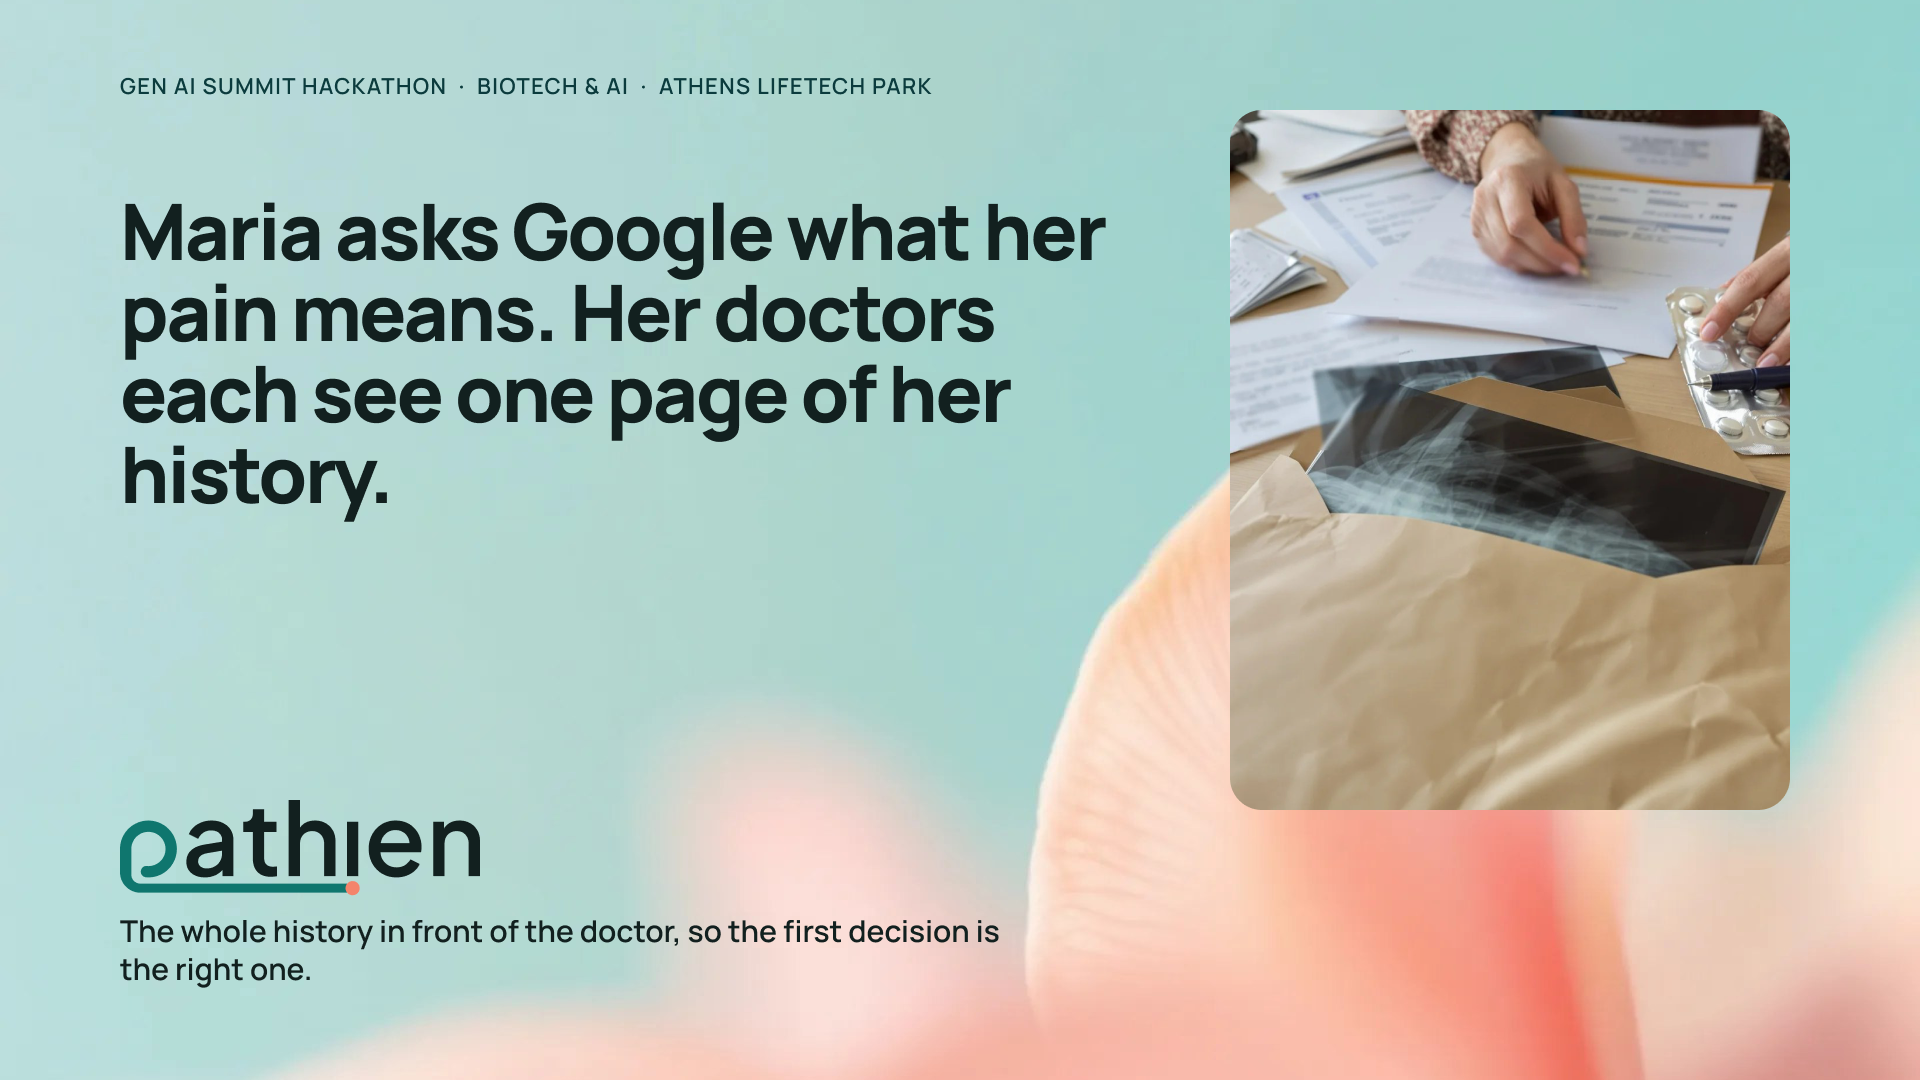
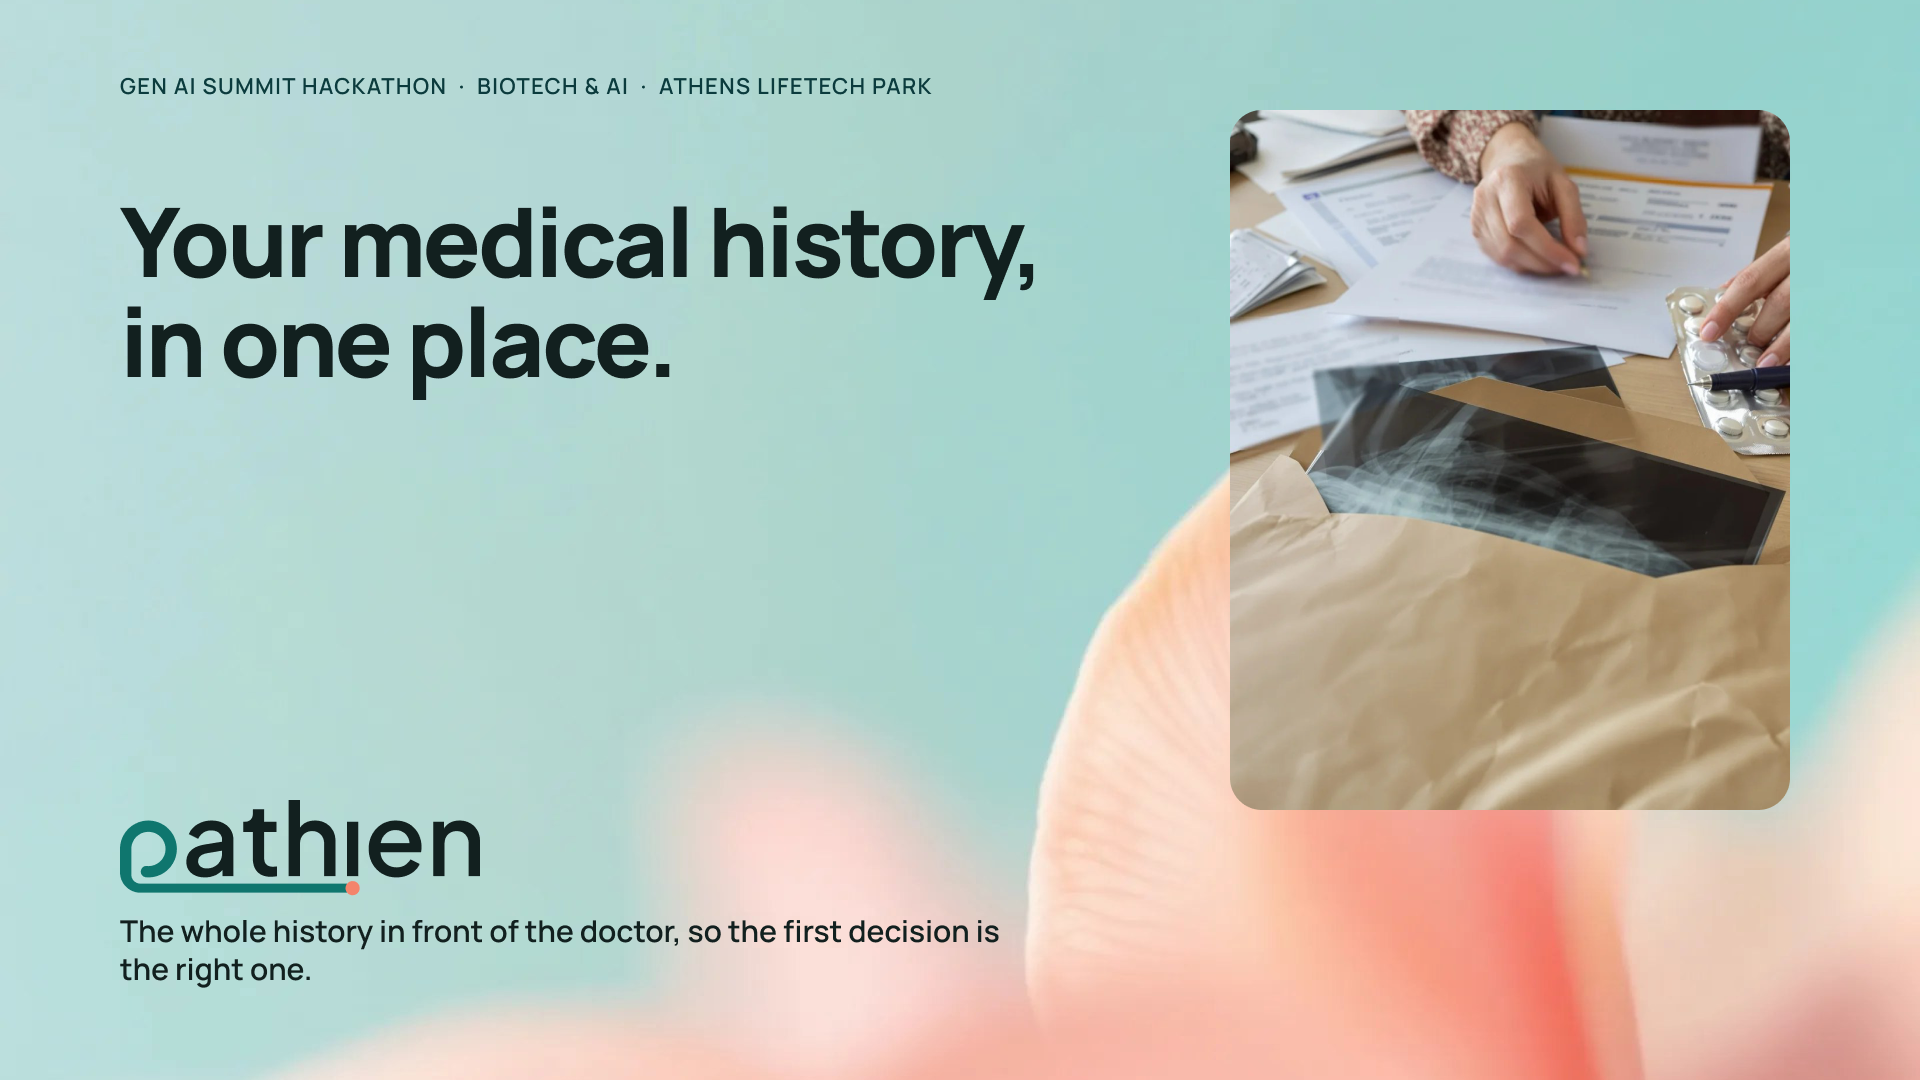
fix(deck): cover headline "Your medical history, in one place." (v4.6) (#105)
* fix(deck): cover headline is "Your medical history, in one place."

Founder, 15 Nov 2026: "just write Your medical history, in one place."
Slide 1 headline replaced, broken after the comma (white-space:pre-line on
.cover-h1). deck-content.md v4.6. One-liner and speaker notes unchanged.

MIN-4503

* docs(deck): new Figma cover render for v4.6 headline

Refs MIN-4503

---------

Changed region(s): [[0.0625, 0.1833, 0.5938, 0.4889]]

diff --git a/landing/src/deck/deck.css b/landing/src/deck/deck.css
@@ -57,7 +57,7 @@ strong{font-weight:700}
 /* ---- Cover ---- */
 .t-cover{background-size:cover;background-position:center}
 .cover-eyebrow{position:absolute;left:120px;top:70px;font-size:24px;font-weight:600;letter-spacing:.02em;text-transform:uppercase;color:#0f2f2c}
-.cover-h1{position:absolute;left:120px;top:186px;width:1030px;font-size:86px;line-height:80px;font-weight:700;letter-spacing:-.045em;color:#12201F}
+.cover-h1{position:absolute;left:120px;top:186px;width:1030px;font-size:86px;line-height:80px;font-weight:700;letter-spacing:-.045em;color:#12201F;white-space:pre-line}
 .cover-photo{position:absolute;left:1230px;top:110px;width:560px;height:700px;object-fit:cover;border-radius:32px;box-shadow:var(--sh)}
 .cover-foot{position:absolute;left:120px;top:796px;width:1000px}
 .cover-lockup{width:360px}

diff --git a/landing/src/deck/slides.ts b/landing/src/deck/slides.ts
@@ -17,7 +17,7 @@ const mainSlides: Slide[] = [
   {
     id: '1', template: 'cover', theme: 'air', notes: N['1'],
     eyebrow: 'Gen AI Summit Hackathon · Biotech & AI · Athens LifeTech Park',
-    headline: 'Maria asks Google what her pain means. Her doctors each see one page of her history.',
+    headline: 'Your medical history,\nin one place.',
     tagline: 'The whole history in front of the doctor, so the first decision is the right one.',
     background: '/img/bg-hero.webp',
     photo: { src: '/img/problem.webp', alt: 'A worn envelope of exams, an X-ray and loose letters on a table' },

diff --git a/docs/deck/deck-content.md b/docs/deck/deck-content.md
@@ -11,7 +11,7 @@ Version entries before v4.2 use the old numbers.
 | | |
 |---|---|
 | **Owner** | Anna Lytica (Marketing), MIN-4429. Deck story: CEO (MIN-4425). Design: Pix (MIN-4428), next. |
-| **Version** | **v4.5, 15 Nov 2026** (MIN-4503: slide 6c rebuilt so the three cards compare the same thing. Founder, 15 Nov 2026, verbatim, asked of the v4.4 cards "$360M\*" and "$200,000\*": *"does 360m is the whole and the 200000 is per trial?"*, then: *"You need to be clear with the numbers and compare the same thing"*. The v4.4 cards mixed a market total over the life of 1,497 trials (recruitment budget, dollars), a per-trial running-cost saving (dollars) and our per-trial fee (euros). All three cards are now the cost of recruitment time, for one trial in one country, in euros at $1.10 to €1: card 1 **€36,000\*** a day of delay ($40,000, S23, rounded down); card 2 **€180,000\*** saved, 5 × €36,000; card 3 **€24,000\*** our fee, the sponsor keeps €156,000. The market totals ($357M ≈ €325M recruitment budget, 1,497 trials, 776,650 participants, ≈ €270M of running cost if each saved 5 days) moved to A3 as context, with a new answer on why the cards use the cost of a day and not the recruitment budget per trial. A3's worked example, speaker notes, web deck (`slides.ts`, `notes.ts`, `appendix.ts`) and `docs/business/clinical-trials-fit.md` §8 match. Was $360M / $200,000 / €24,000, sponsor keeps €158,000.) v4.4, 15 Nov 2026 (MIN-4503: slide 5b step 1 reversed. Founder, 15 Nov 2026, verbatim: *"probably in a serious condition"*. Step 1 now reads "possibly in a serious condition"; speaker notes and A2 "For questions" items 1 and 4 rewritten to match: support verifies with the hospital, not the patient. Replaces the v3.5 wording "with no serious condition".) **v4.3, 15 Nov 2026** (MIN-4503: the ask is now **€1M over 24 months**, in two gated tranches of **€300k** and **€700k** (was €600k over 18 months), merged from the CEO's plan v3, `docs/business/team-and-funding-plan.md` §7; slide 13 (team and ask) and slide 14 (why) rewritten with main numbers only: the headline, the ask, the two gates, the spend bar (Sell €285k · 29%, Build €361k · 36%, Prove €242k · 24%, Buffer €112k · 11%), one team line and an "\*" footnote with "Details → A9"; A9 filled with the full tables (team, spend by function, burn by quarter, runway, tranches and inner gates, break-even on both lines and the cash low point, the €885k alternative, assumptions); the 3-minute script and `docs/submission/pitch-script.md` now say €1M over 24 months; Q27 and Q39 updated; founder, verbatim: "Fund 1m -> do the maths", then "Keep at all slides the main numbers and add all at appendix with link"). v4.2, 15 Nov 2026 (MIN-4503: main numbers only on every slide, every detail moved to nine appendix slides A1 to A9 with a "Details → A_" link from each main slide; slide 3 cut to a headline and three points; slide 4 cut to five one-sentence steps; old slide 5 (live demo) removed, its content moved to A2 and slide 4's "For questions", the demo still runs live with no slide; privacy (old 6, now 5) cut to three points; old 7c (now 6c) cut to three cards, each a title, one big number with a "\*" and one line, one small footnote; the asterisk-and-small-footnote style made deck-wide for estimates in rule 8, replacing the same-size label rule; business model (old 10, now 9) rebuilt on three buyer groups: hospitals, governments and national health systems, private clinics; old Appendix A is now A7; slides renumbered, map in the comment at the top; slides 13 and 14 (old 14 and 15) unchanged apart from links, pending the CEO's €1M text; nothing deleted, only moved; founder, verbatim, in order: "slide 3 -> reduce content and make it clear and understandable / Slide 4 -> reduce the text also, clear sentences / Slide 5 -> remove / Slide 6-> remove unnecessary info", then "7c -> estimate should be with a * and small letters / Seriously just numbers with an explanation, not too much content", then "bussiness model / We need hospitals, governments, private clinics", then "Keep at all slides the main numbers and add all at appendix with link"). Slide numbers in the entries below are the old numbers. v4.1, 15 Nov 2026 (MIN-4503: the "Mock-up" tag removed from slides 4, 6 and 7 and every other screen; the "Working demo · synthetic data" tag stays on slide 5; slide 2's four chips (Orthopaedist, Rheumatologist, Private lab, Search history) and its closing line ("The history exists, split across providers, apps, private labs, paper and other countries. It never reaches one desk.") removed; rule 8's waiver extended to the Mock-up tag; no other text changed; founder, verbatim, with a screenshot of the chips row: "remove the \"mockup\" tags / remove the whole line"). v4.0, 15 Nov 2026 (MIN-4503: slide 7b slimmed to two lines per column and the revenue strip removed; new slide 7c, Clinical trials, the economics, three cards: today's recruitment cost, what Pathien could save a sponsor, how we charge; success fee lowered from €1,500 to €1,000 per randomised patient (assumption) because ASPE puts the recruitment line at about $500 to $700 per participant and a vendor average at $1,379; sources S29 to S31; slide 11 totals unchanged; founder, verbatim: "Pricing -> show different in 3 cards / * The current situation, the cost of one hire, number of trials and the participants, total cost / * How cheaper could be from our patient match and selection and how many money we can save them / * How we can charge and the revenue", then "Reduct the content of patient selection and patient experience"). v3.9, 15 Nov 2026 (MIN-4503: slide 7b rewritten: no "not built" eyebrow; two columns for the challenge's Topic 2, patient selection and recruitment, and Topic 3, patient experience; a revenue strip with a sourced cost of delay and a priced unit, €5,000 per trial set-up and €1,500 per randomised patient, both assumptions; sources S23 to S28; slide 11 totals unchanged, trial revenue named under "Not counted"; founder, verbatim: "Change the content and focus / NOT not build yet next steps / Say how our solution can cover / patient selection and recruitment; / patient experience; / Connect with revenue from trial clinics"). v3.8, 15 Nov 2026 (MIN-4503: new slide 7b, Clinical trials, after slide 7; labelled "Not built yet · our next step"; founder, verbatim: "Deck 7 -> Create a deck 7b to connect to the Clinical_Trials_Challenge"; the founder's summary is `docs/business/clinical-trials-fit.md`; no other slide renumbered). v3.7, 15 Nov 2026 (MIN-4503: slide 12, Tel Aviv and Sheba ARC removed; founder, verbatim: "remove tel aviv for now at 12 slide"). v3.6, 15 Nov 2026 (MIN-4503: slide 6b step 4 and its speaker note: the support person calls the hospital to verify the situation, not the patient; founder, verbatim: "not to verify with patient but to verify the situation with the hospital"). v3.5, 15 Nov 2026 (MIN-4503: slide 6b, the concept label and all pricing removed, and a four-step "How it's used" flow added; founder, verbatim: "6b -> concept ,not build -> remove / Pricing -> No / But add how to use / Patient abroad or at a hospital with no serious condition -> Doctor scans the code on the machine -> opens the doctor page -> one of our support team calls to verify the condition and give the doctor access"; rule 8 (concept labels) is waived for 6b by the founder; S21 and S22 unused). v3.4, 14 Nov 2026 (MIN-4462: every insurer mention removed from slides 6, 6b, 10, 11, 13 and both scripts; founder: "remove the never insurers -> not sure about this", then "Drop every insurer mention"; the internal data rule is unchanged). v3.3, 14 Nov 2026 (MIN-4503: slide 6b, the "Concept render" tag removed and the encryption point added; founder: "remove the concept render -> and mention that this device has our own encrypted software for the data so they are not in the cloud"; the eyebrow "Concept · not built" stays). v3.2, 14 Nov 2026 (MIN-4503: new slide 6b, Pathien Vault, a concept device for patients who want maximum privacy; founder: "what if someone that want's his privacy can buy our device that can hold his data. Anna and pix work on this and add one slide with a very super elegant image with our device that looks very premioum"; no other slide renumbered). v3.1, 14 Nov 2026 (MIN-4503: team and ask from the CEO plan v2, `docs/business/team-and-funding-plan.md` §7; slide 14 replaced, slide 15 new; founder: "put it in the deck when ready"). v3, 14 Nov 2026 (MIN-4503: name Pathien; new slide 11, revenue years 1 to 3, on the founder's ask "the numbers of how many money we can earn" and "Yes, update to v3"; Appendix A's SOM retired for the bottom-up line; demo slides say what is real and what is synthetic). v2, 14 Nov 2026 (MIN-4503: reframed on the founder's two points, "Dr Google" and better doctor decisions; numbers from `pitch-numbers-2026-11-14.md` and `treg-findings-2026-11-14.md`). v1, 13 Nov 2026. |
+| **Version** | **v4.6, 15 Nov 2026** (MIN-4503: slide 1 cover headline replaced. Founder, 15 Nov 2026, verbatim, after none of the five proposed cover headlines was picked: *"just write Your medical history, in one place."* The headline is now "Your medical history, / in one place.", broken after the comma, the same words as the landing page hero; the one-liner and the speaker notes are unchanged; web deck `slides.ts` matches. Was "Maria asks Google what her pain means. Her doctors each see one page of her history.") v4.5, 15 Nov 2026 (MIN-4503: slide 6c rebuilt so the three cards compare the same thing. Founder, 15 Nov 2026, verbatim, asked of the v4.4 cards "$360M\*" and "$200,000\*": *"does 360m is the whole and the 200000 is per trial?"*, then: *"You need to be clear with the numbers and compare the same thing"*. The v4.4 cards mixed a market total over the life of 1,497 trials (recruitment budget, dollars), a per-trial running-cost saving (dollars) and our per-trial fee (euros). All three cards are now the cost of recruitment time, for one trial in one country, in euros at $1.10 to €1: card 1 **€36,000\*** a day of delay ($40,000, S23, rounded down); card 2 **€180,000\*** saved, 5 × €36,000; card 3 **€24,000\*** our fee, the sponsor keeps €156,000. The market totals ($357M ≈ €325M recruitment budget, 1,497 trials, 776,650 participants, ≈ €270M of running cost if each saved 5 days) moved to A3 as context, with a new answer on why the cards use the cost of a day and not the recruitment budget per trial. A3's worked example, speaker notes, web deck (`slides.ts`, `notes.ts`, `appendix.ts`) and `docs/business/clinical-trials-fit.md` §8 match. Was $360M / $200,000 / €24,000, sponsor keeps €158,000.) v4.4, 15 Nov 2026 (MIN-4503: slide 5b step 1 reversed. Founder, 15 Nov 2026, verbatim: *"probably in a serious condition"*. Step 1 now reads "possibly in a serious condition"; speaker notes and A2 "For questions" items 1 and 4 rewritten to match: support verifies with the hospital, not the patient. Replaces the v3.5 wording "with no serious condition".) **v4.3, 15 Nov 2026** (MIN-4503: the ask is now **€1M over 24 months**, in two gated tranches of **€300k** and **€700k** (was €600k over 18 months), merged from the CEO's plan v3, `docs/business/team-and-funding-plan.md` §7; slide 13 (team and ask) and slide 14 (why) rewritten with main numbers only: the headline, the ask, the two gates, the spend bar (Sell €285k · 29%, Build €361k · 36%, Prove €242k · 24%, Buffer €112k · 11%), one team line and an "\*" footnote with "Details → A9"; A9 filled with the full tables (team, spend by function, burn by quarter, runway, tranches and inner gates, break-even on both lines and the cash low point, the €885k alternative, assumptions); the 3-minute script and `docs/submission/pitch-script.md` now say €1M over 24 months; Q27 and Q39 updated; founder, verbatim: "Fund 1m -> do the maths", then "Keep at all slides the main numbers and add all at appendix with link"). v4.2, 15 Nov 2026 (MIN-4503: main numbers only on every slide, every detail moved to nine appendix slides A1 to A9 with a "Details → A_" link from each main slide; slide 3 cut to a headline and three points; slide 4 cut to five one-sentence steps; old slide 5 (live demo) removed, its content moved to A2 and slide 4's "For questions", the demo still runs live with no slide; privacy (old 6, now 5) cut to three points; old 7c (now 6c) cut to three cards, each a title, one big number with a "\*" and one line, one small footnote; the asterisk-and-small-footnote style made deck-wide for estimates in rule 8, replacing the same-size label rule; business model (old 10, now 9) rebuilt on three buyer groups: hospitals, governments and national health systems, private clinics; old Appendix A is now A7; slides renumbered, map in the comment at the top; slides 13 and 14 (old 14 and 15) unchanged apart from links, pending the CEO's €1M text; nothing deleted, only moved; founder, verbatim, in order: "slide 3 -> reduce content and make it clear and understandable / Slide 4 -> reduce the text also, clear sentences / Slide 5 -> remove / Slide 6-> remove unnecessary info", then "7c -> estimate should be with a * and small letters / Seriously just numbers with an explanation, not too much content", then "bussiness model / We need hospitals, governments, private clinics", then "Keep at all slides the main numbers and add all at appendix with link"). Slide numbers in the entries below are the old numbers. v4.1, 15 Nov 2026 (MIN-4503: the "Mock-up" tag removed from slides 4, 6 and 7 and every other screen; the "Working demo · synthetic data" tag stays on slide 5; slide 2's four chips (Orthopaedist, Rheumatologist, Private lab, Search history) and its closing line ("The history exists, split across providers, apps, private labs, paper and other countries. It never reaches one desk.") removed; rule 8's waiver extended to the Mock-up tag; no other text changed; founder, verbatim, with a screenshot of the chips row: "remove the \"mockup\" tags / remove the whole line"). v4.0, 15 Nov 2026 (MIN-4503: slide 7b slimmed to two lines per column and the revenue strip removed; new slide 7c, Clinical trials, the economics, three cards: today's recruitment cost, what Pathien could save a sponsor, how we charge; success fee lowered from €1,500 to €1,000 per randomised patient (assumption) because ASPE puts the recruitment line at about $500 to $700 per participant and a vendor average at $1,379; sources S29 to S31; slide 11 totals unchanged; founder, verbatim: "Pricing -> show different in 3 cards / * The current situation, the cost of one hire, number of trials and the participants, total cost / * How cheaper could be from our patient match and selection and how many money we can save them / * How we can charge and the revenue", then "Reduct the content of patient selection and patient experience"). v3.9, 15 Nov 2026 (MIN-4503: slide 7b rewritten: no "not built" eyebrow; two columns for the challenge's Topic 2, patient selection and recruitment, and Topic 3, patient experience; a revenue strip with a sourced cost of delay and a priced unit, €5,000 per trial set-up and €1,500 per randomised patient, both assumptions; sources S23 to S28; slide 11 totals unchanged, trial revenue named under "Not counted"; founder, verbatim: "Change the content and focus / NOT not build yet next steps / Say how our solution can cover / patient selection and recruitment; / patient experience; / Connect with revenue from trial clinics"). v3.8, 15 Nov 2026 (MIN-4503: new slide 7b, Clinical trials, after slide 7; labelled "Not built yet · our next step"; founder, verbatim: "Deck 7 -> Create a deck 7b to connect to the Clinical_Trials_Challenge"; the founder's summary is `docs/business/clinical-trials-fit.md`; no other slide renumbered). v3.7, 15 Nov 2026 (MIN-4503: slide 12, Tel Aviv and Sheba ARC removed; founder, verbatim: "remove tel aviv for now at 12 slide"). v3.6, 15 Nov 2026 (MIN-4503: slide 6b step 4 and its speaker note: the support person calls the hospital to verify the situation, not the patient; founder, verbatim: "not to verify with patient but to verify the situation with the hospital"). v3.5, 15 Nov 2026 (MIN-4503: slide 6b, the concept label and all pricing removed, and a four-step "How it's used" flow added; founder, verbatim: "6b -> concept ,not build -> remove / Pricing -> No / But add how to use / Patient abroad or at a hospital with no serious condition -> Doctor scans the code on the machine -> opens the doctor page -> one of our support team calls to verify the condition and give the doctor access"; rule 8 (concept labels) is waived for 6b by the founder; S21 and S22 unused). v3.4, 14 Nov 2026 (MIN-4462: every insurer mention removed from slides 6, 6b, 10, 11, 13 and both scripts; founder: "remove the never insurers -> not sure about this", then "Drop every insurer mention"; the internal data rule is unchanged). v3.3, 14 Nov 2026 (MIN-4503: slide 6b, the "Concept render" tag removed and the encryption point added; founder: "remove the concept render -> and mention that this device has our own encrypted software for the data so they are not in the cloud"; the eyebrow "Concept · not built" stays). v3.2, 14 Nov 2026 (MIN-4503: new slide 6b, Pathien Vault, a concept device for patients who want maximum privacy; founder: "what if someone that want's his privacy can buy our device that can hold his data. Anna and pix work on this and add one slide with a very super elegant image with our device that looks very premioum"; no other slide renumbered). v3.1, 14 Nov 2026 (MIN-4503: team and ask from the CEO plan v2, `docs/business/team-and-funding-plan.md` §7; slide 14 replaced, slide 15 new; founder: "put it in the deck when ready"). v3, 14 Nov 2026 (MIN-4503: name Pathien; new slide 11, revenue years 1 to 3, on the founder's ask "the numbers of how many money we can earn" and "Yes, update to v3"; Appendix A's SOM retired for the bottom-up line; demo slides say what is real and what is synthetic). v2, 14 Nov 2026 (MIN-4503: reframed on the founder's two points, "Dr Google" and better doctor decisions; numbers from `pitch-numbers-2026-11-14.md` and `treg-findings-2026-11-14.md`). v1, 13 Nov 2026. |
 | **Event** | Gen AI Summit Hackathon, Athens LifeTech Park, Biotech & AI track |
 | **Market** | Global. Founder: "Dont focus on the greek market. we need to focus on global market" |
 | **Sources** | Only `docs/research/` (Sales). Each number carries a source ID from the table at the end (S1 to S31; S29 to S31, added in v4.0 by Marketing for slide 6c, old 7c; S23 to S28, added in v3.9 by Marketing for slide 6b, old 7b, used on 6c since v4.0; S21 and S22, added in v3.2 by Marketing as price anchors for slide 5b, old 6b, are unused since v3.5, when the founder removed the price) and its status from the research: **verified**, **secondary**, or **assumption**. Nothing from the research's "Do not put on a slide" list is used. Since v4.2 the sources sit on the appendix slides; each main slide links to its appendix. |
@@ -41,7 +41,7 @@ Version entries before v4.2 use the old numbers.
 
 ## Slide 1: Hook (cover)
 
-**Headline:** Maria asks Google what her pain means. Her doctors each see one page of her history.
+**Headline:** Your medical history,<br>in one place. (Two lines, break after the comma. The same words as the landing page hero headline.)
 
 **Body:**
 - **Pathien** · The whole history in front of the doctor, so the first decision is the right one.
